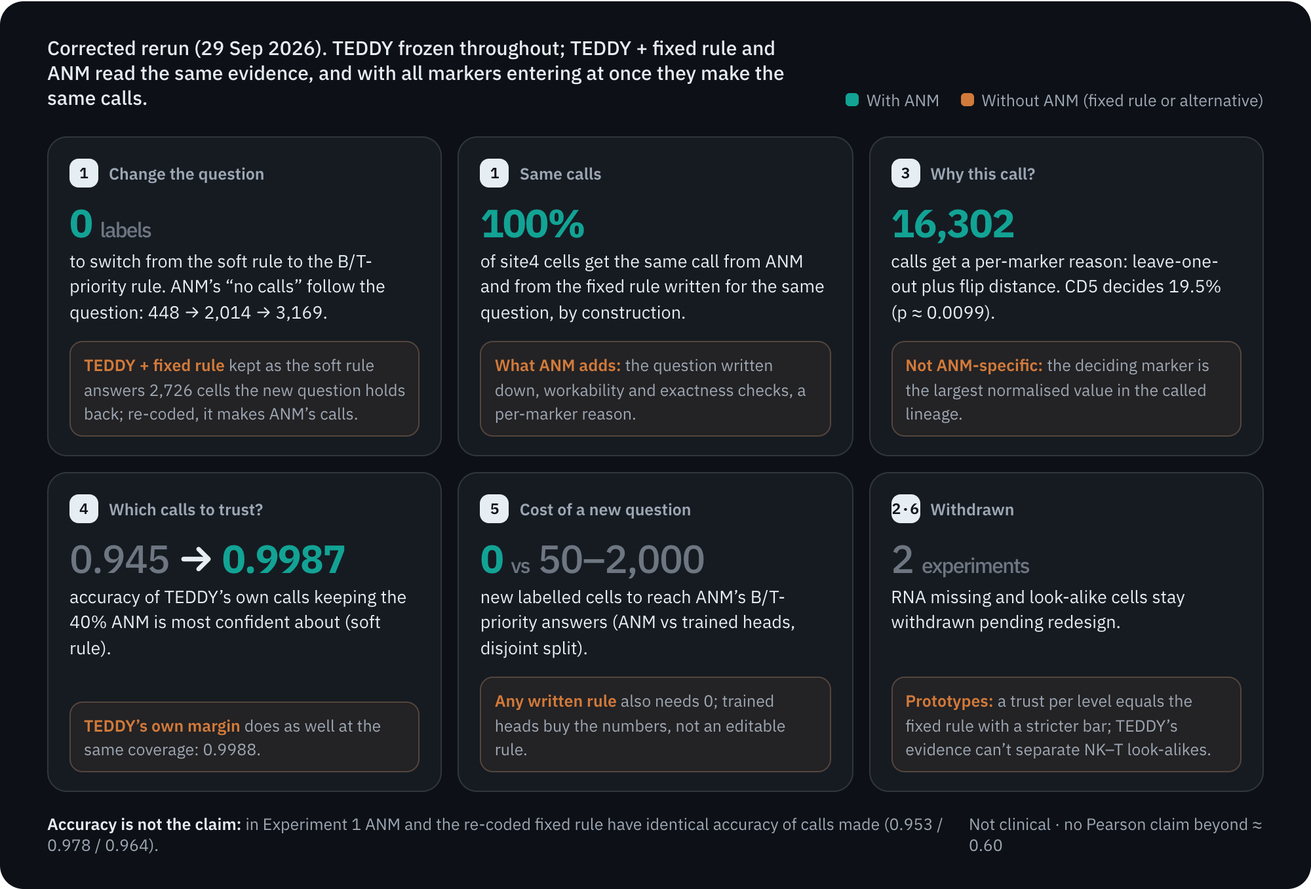
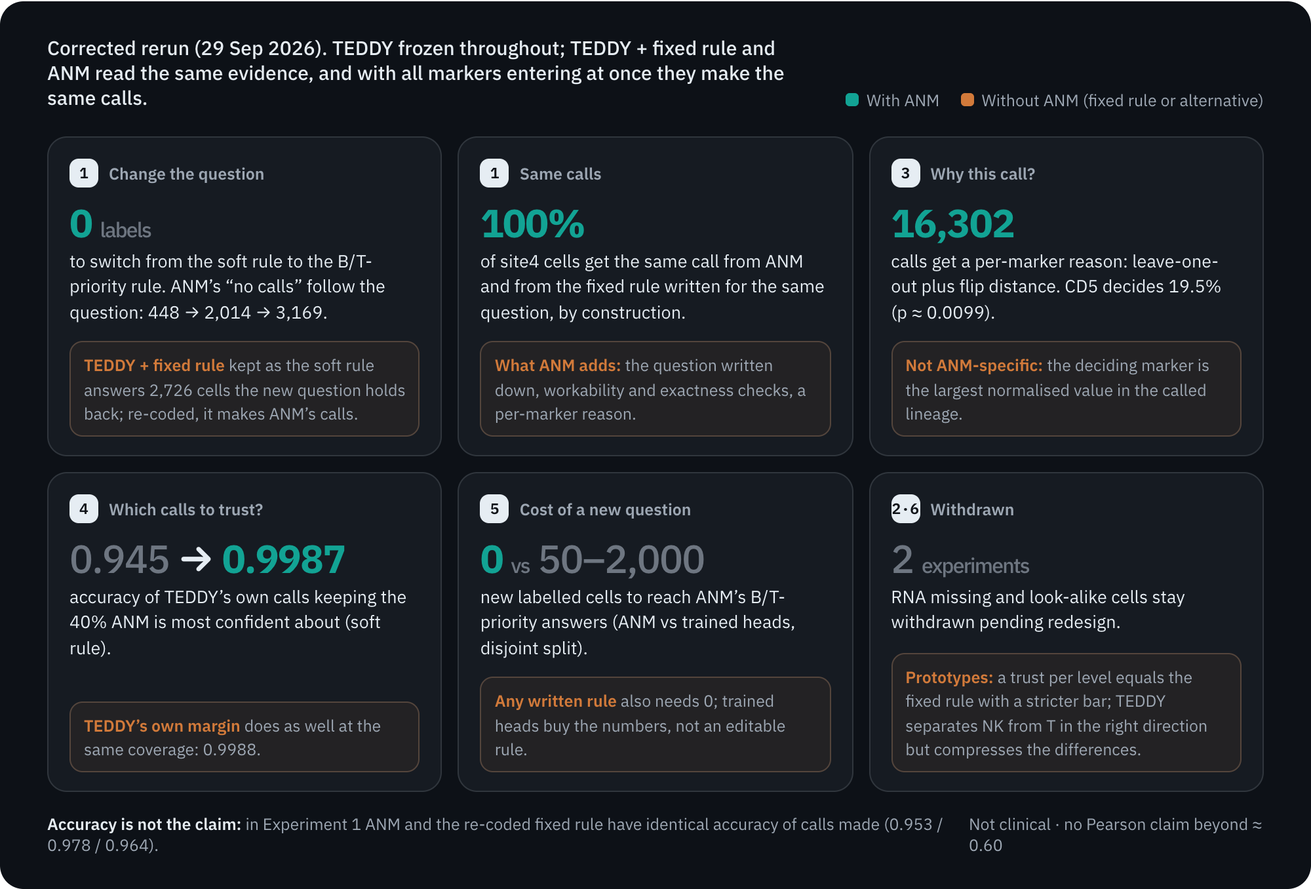
docs: correct the Experiment 6 NK–T prototype claim
The earlier line "TEDDY's evidence cannot separate NK–T look-alikes"
(predicted NK-marker gap 0.000) came from the 918 of 1,279 site4 NK–T
pairs that involve "gdT CD158b+" cells, which TEDDY and measured protein
both call NK-like. On the other 361 pairs the median predicted gap for
CD56/CD94/CD335/CD3 is 0.176/0.137/0.248/0.195 vs measured
0.563/0.301/0.360/0.738: TEDDY separates NK from T in the right
direction but compresses the differences. Updated the homepage, the
Experiment 6 page, README, MODE_B_SCOPE and the README "why" figure.

Changed region(s): [[0.682, 0.7434, 0.93, 0.8673]]

diff --git a/docs/index.html b/docs/index.html
@@ -592,7 +592,7 @@ footer .wrap { display: flex; flex-wrap: wrap; gap: 8px 24px; justify-content: s
           <li><b>Experiment 5:</b> labels are now drawn from a pool disjoint from the scored cells (11,725 / 5,025). Labels to match ANM: logistic 500, MLP 2,000 (was 200), threshold grid 50.</li>
           <li><b>Answer key.</b> It still has three classes (B, T, myeloid) and no NK or out-of-scope class. Out-of-scope cells (NK, ILC, erythroid, progenitor) still get a call 64–91% of the time, from ANM and the rule alike.</li>
           <li><b>Experiment 2 (RNA missing): withdrawn pending redesign.</b> Prototype: with degraded RNA fed to TEDDY, ANM with a declared trust per level makes the same decisions as the fixed rule with a stricter bar per level.</li>
-          <li><b>Experiment 6 (look-alike cells): withdrawn pending redesign.</b> Prototype: TEDDY’s evidence cannot separate NK–T look-alikes, and 72% of site4 NK–T pairs involve “gdT CD158b+” cells that look NK by protein.</li>
+          <li><b>Experiment 6 (look-alike cells): withdrawn pending redesign.</b> Prototype: TEDDY does separate NK from T in the right direction but compresses the differences to about a quarter to a half of the measured ones (CD335 about two-thirds). On site4, 918 of the 1,279 NK–T look-alike pairs involve “gdT CD158b+” cells, which TEDDY and measured protein both call NK-like (an annotation problem, not a TEDDY failure); on the other 361 pairs the median within-pair gap in TEDDY-predicted CD56 / CD94 / CD335 / CD3 is 0.176 / 0.137 / 0.248 / 0.195 vs measured 0.563 / 0.301 / 0.360 / 0.738.</li>
           <li><b>Phase 1 re-evaluated</b> with the train-median factor: test Pearson 0.610 → 0.603 (MLP) and 0.596 → 0.588 (flow matching); panel proteins drop by at most 0.013.</li>
           <li><b>TEDDY preprocessing deviates from the official pipeline.</b> teddy_mm’s embedding is a mean over real tokens at 512 tokens with no gene-median normalisation. Official TEDDY-G returns token 0 by default; its tutorial mean-pools over 2,048 positions after gene-median normalisation. With the medians applied, the cosine to the stored embedding is 0.649.</li>
           <li><b>“0 labels for a new question”</b> holds for any written rule, including TEDDY’s fixed rule; it is not specific to ANM.</li>
@@ -672,7 +672,7 @@ footer .wrap { display: flex; flex-wrap: wrap; gap: 8px 24px; justify-content: s
             <tr><th scope="row"><a href="#attr">3 · Why this call?</a></th><td class="c-t" data-arm="TEDDY + fixed rule">Reports no reason; once written down, the same leave-one-out runs on the rule itself</td><td class="win c-a" data-arm="TEDDY + ANM">Leave-one-out and flip distance on all 16,302 calls; CD5 decides 19.5% (p ≈ 0.0099), as the largest normalised value in the called lineage</td><td class="c-r" data-arm="TEDDY + trained classifier">Learned weights (opaque)</td></tr>
             <tr><th scope="row"><a href="#scope">4 · Which calls to trust?</a></th><td class="win c-t" data-arm="TEDDY + fixed rule">Its own score margin gates its calls as well: 0.9985 keeping 40% (B/T-priority)</td><td class="c-a" data-arm="TEDDY + ANM">Its confidence gates TEDDY’s calls: 0.915 → 0.9981 keeping 40% (B/T-priority), no better than the margin</td><td class="c-r" data-arm="TEDDY + trained classifier">A small head on the 9 predictions, trained on hard-cell labels, gains little over random labels (+0.055 at 50, +0.003 at 100)</td></tr>
             <tr><th scope="row"><a href="#labels">5 · Cost of a new question</a></th><td class="c-t" data-arm="TEDDY + fixed rule">Re-code the rule (0 labels) or re-tune on labels</td><td class="c-a" data-arm="TEDDY + ANM">0 labels, as for any written rule (TEDDY’s fixed rule included)</td><td class="c-r" data-arm="TEDDY + trained classifier">≈ 50 (grid), 500 (logistic) or 2,000 (MLP) labelled cells to match, again at every change</td></tr>
-            <tr><th scope="row"><a href="#anm-loop">6 · Look-alike cells</a></th><td class="c-t" data-arm="TEDDY + fixed rule">Withdrawn pending redesign</td><td class="c-a" data-arm="TEDDY + ANM">Withdrawn. Prototype: TEDDY’s evidence cannot separate NK–T look-alikes; 72% of site4 NK–T pairs involve “gdT CD158b+” cells that look NK by protein</td><td class="c-r" data-arm="TEDDY + trained classifier">Withdrawn</td></tr>
+            <tr><th scope="row"><a href="#anm-loop">6 · Look-alike cells</a></th><td class="c-t" data-arm="TEDDY + fixed rule">Withdrawn pending redesign</td><td class="c-a" data-arm="TEDDY + ANM">Withdrawn. Prototype: TEDDY separates NK from T in the right direction but compresses the differences (on the 361 site4 NK–T pairs without “gdT CD158b+” cells, which TEDDY and protein both call NK-like: median predicted CD56 gap 0.176 vs measured 0.563)</td><td class="c-r" data-arm="TEDDY + trained classifier">Withdrawn</td></tr>
           </tbody>
         </table>
       </div>
@@ -1150,7 +1150,7 @@ footer .wrap { display: flex; flex-wrap: wrap; gap: 8px 24px; justify-content: s
           <div class="bk"><div class="v t">−0.27</div><div class="d">gluing protein features onto the embedding (z⁺) makes the global must-separate rate worse.</div></div>
         </div>
         <div class="bproof">
-          <div class="proves"><b>Headline withdrawn pending redesign</b>The test also changes the question (soft → strict), and the answer key has no NK or out-of-scope class, so many “myeloid” cells in these pairs are NK cells. Redesign prototype: TEDDY’s evidence cannot separate NK–T look-alikes, and 72% of site4 NK–T pairs involve “gdT CD158b+” cells that look NK by protein. Kept here for the record: ANM can flag where TEDDY’s embedding is insufficient and add a typed evidence channel, without retraining TEDDY.</div>
+          <div class="proves"><b>Headline withdrawn pending redesign</b>The test also changes the question (soft → strict), and the answer key has no NK or out-of-scope class, so many “myeloid” cells in these pairs are NK cells. Redesign prototype: TEDDY does separate NK from T in the right direction but compresses the differences to about a quarter to a half of the measured ones (CD335 about two-thirds). On site4, 918 of the 1,279 NK–T look-alike pairs involve “gdT CD158b+” cells, which TEDDY and measured protein both call NK-like (an annotation problem, not a TEDDY failure); on the other 361 pairs the median within-pair gap in TEDDY-predicted CD56 / CD94 / CD335 / CD3 is 0.176 / 0.137 / 0.248 / 0.195 vs measured 0.563 / 0.301 / 0.360 / 0.738. Kept here for the record: ANM can flag where TEDDY’s embedding is insufficient and add a typed evidence channel, without retraining TEDDY.</div>
           <div class="limits"><b>Does not prove</b>A production fix: measured protein replaces TEDDY’s predictions as the evidence in this one test; in normal use it stays the answer key. Gains are smaller on all 5,000 pairs (0.893 → 0.586). A decision loop, not a study of TEDDY’s internals.</div>
         </div>
         <div class="loop-cta"><a class="btn pri" href="anm-loop.html">Step through the loop ↗</a><span style="font-size:.84rem;color:var(--ink-muted)">Veto evidence, every fix we tried, scoreboard by fix × metric.</span></div>
@@ -1442,7 +1442,7 @@ window.GUIDE_CONFIG = (function () {
             [T('veto', 'Veto'), 'Of 177,704 near pairs, 9,723 have measured proteins that disagree: ' + T('mustpair', 'must-separate pairs') + '. On 1,490 myeloid↔T pairs (median cosine 0.982), TEDDY’s predictions read by the soft rule give both cells the same call in 85% of the pairs where both are called.'],
             [T('complement', 'Complement'), 'Same engine, different evidence: the 9 inputs come from the measured proteins instead of TEDDY’s predictions, read by the strict rule. Also tried: the question alone, and gluing proteins onto the embedding (' + T('zplus', 'z⁺') + ').'],
             [T('verify', 'Verify'), 'The same pairs again: false agreement 0.85 → 0.40, pairs told apart 0.17 → 0.63, accuracy of calls made 0.74 → 0.99.'],
-            ['What it showed', 'Headline withdrawn pending redesign (it also changes the question; the key has no NK class). Redesign prototype: TEDDY’s evidence cannot separate NK–T look-alikes; 72% of site4 NK–T pairs involve “gdT CD158b+” cells that look NK by protein. As run, only changing the evidence the decision reads fixes these pairs. The question alone leaves false agreement at 0.83–0.84, and z⁺ makes the global must-separate rate worse (−0.27).']
+            ['What it showed', 'Headline withdrawn pending redesign (it also changes the question; the key has no NK class). Redesign prototype: TEDDY separates NK from T in the right direction but compresses the differences (on the 361 site4 NK–T pairs without “gdT CD158b+” cells, which TEDDY and protein both call NK-like: median predicted CD56 gap 0.176 vs measured 0.563). As run, only changing the evidence the decision reads fixes these pairs. The question alone leaves false agreement at 0.83–0.84, and z⁺ makes the global must-separate rate worse (−0.27).']
           ]
         },
         concepts: ['z512', 'mustpair', 'veto', 'complement', 'verify', 'falseagree', 'softsep', 'zplus']
@@ -2158,7 +2158,7 @@ window.GUIDE_CONFIG = (function () {
         ['… · embedding + predicted protein (z⁺)', f(b6.zplus.predFrac98, 4)],
         ['Global change in the must-separate rate (measured / predicted / predicted, all 9 proteins)', b6.zplus.global.map(function (v) { return f(v, 4); }).join(' / ')]
       ] }
-    ], 'First run. Full fix-by-fix scoreboard: <a href="anm-loop.html#verify-all">anm-loop.html</a>. Withdrawn pending redesign: the prototype finds TEDDY’s evidence cannot separate NK–T look-alikes, and 72% of site4 NK–T pairs involve “gdT CD158b+” cells that look NK by protein.');
+    ], 'First run. Full fix-by-fix scoreboard: <a href="anm-loop.html#verify-all">anm-loop.html</a>. Withdrawn pending redesign: the prototype finds TEDDY separates NK from T in the right direction but compresses the differences (on the 361 site4 NK–T pairs without “gdT CD158b+” cells, which TEDDY and protein both call NK-like: median predicted CD56 gap 0.176 vs measured 0.563).');
   }
 
   /* =================== observer explorer =================== */

diff --git a/docs/anm-loop.html b/docs/anm-loop.html
@@ -344,7 +344,7 @@ footer { padding: 2rem 0 3rem; color: var(--ink-muted); font-size: .84rem; borde
         <div class="tile"><div class="k"><span class="term" data-term="softsep">Soft separation</span> ↑</div><div class="v"><span class="from">0.17</span><span class="arrow">→</span><span class="to">0.63</span></div><div class="h">Pair told apart: different calls, or one declined</div></div>
         <div class="tile"><div class="k"><span class="term" data-term="qdec">Accuracy of calls made</span> ↑</div><div class="v"><span class="from">0.74</span><span class="arrow">→</span><span class="to">0.99</span></div><div class="h">Correct calls among the calls made</div></div>
       </div>
-      <div class="say warn" style="margin-top:1rem;font-size:.86rem"><b>Corrections (29 Sep 2026).</b> This page is Experiment 6, Look-alike cells. It stays <b>withdrawn pending redesign</b> and was not rerun; the numbers below are the first run’s, kept as a record. The corrected rerun is done for Experiments 1, 3, 4 and 5 (<a href="index.html#corrections">see the homepage</a>): with all markers entering at once and a train-median size factor, ANM makes the same call as the fixed rule on every cell. Known issues here: markers were entered one per step in panel order, a hidden weight; predictions were scaled by a per-cell factor computed from measured protein; the answer key has no NK or out-of-scope class. Redesign prototype: TEDDY’s evidence cannot separate NK–T look-alikes, and 72% of site4 NK–T pairs involve “gdT CD158b+” cells that look NK by protein. Donor 15078 is in training at other sites and is 32.6% of site4 test cells, and the 9 panel proteins were chosen by test-set Pearson.</div>
+      <div class="say warn" style="margin-top:1rem;font-size:.86rem"><b>Corrections (29 Sep 2026).</b> This page is Experiment 6, Look-alike cells. It stays <b>withdrawn pending redesign</b> and was not rerun; the numbers below are the first run’s, kept as a record. The corrected rerun is done for Experiments 1, 3, 4 and 5 (<a href="index.html#corrections">see the homepage</a>): with all markers entering at once and a train-median size factor, ANM makes the same call as the fixed rule on every cell. Known issues here: markers were entered one per step in panel order, a hidden weight; predictions were scaled by a per-cell factor computed from measured protein; the answer key has no NK or out-of-scope class. Redesign prototype: TEDDY does separate NK from T in the right direction but compresses the differences to about a quarter to a half of the measured ones (CD335 about two-thirds). On site4, 918 of the 1,279 NK–T look-alike pairs involve “gdT CD158b+” cells, which TEDDY and measured protein both call NK-like (an annotation problem, not a TEDDY failure); on the other 361 pairs the median within-pair gap in TEDDY-predicted CD56 / CD94 / CD335 / CD3 is 0.176 / 0.137 / 0.248 / 0.195 vs measured 0.563 / 0.301 / 0.360 / 0.738. Donor 15078 is in training at other sites and is 32.6% of site4 test cells, and the 9 panel proteins were chosen by test-set Pearson.</div>
       <p class="srcnote">Myeloid↔T must-separate pairs, 1,490 · before = TEDDY + fixed rule (soft) → after = measured protein as typed evidence, strict rule · source: <a href="reports/reverse_loop_small_stats.json">reverse_loop_small_stats.json</a></p>
     </div>
   </section>
@@ -564,7 +564,7 @@ footer { padding: 2rem 0 3rem; color: var(--ink-muted); font-size: .84rem; borde
         </ul></div>
       </div>
       <div class="proof">
-        On 5,000 must-separate pairs (1,490 myeloid↔T, median cosine 0.982), TEDDY’s embedding alone is not enough for the readout: false agreement 0.85, soft separation 0.17, accuracy 0.74. ANM’s decision loop vetoes the embedding for these pairs, swaps in measured protein as typed evidence with the strict rule, and verifies false agreement → 0.40, soft separation → 0.63, accuracy → 0.99, without retraining TEDDY. Gluing features onto the embedding is not enough (global change −0.27). Not a study of TEDDY’s internals, not a Pearson claim, not clinical. Withdrawn pending redesign (29 Sep 2026): markers entered one per step in panel order, predictions scaled by a per-cell factor from measured protein, no NK or out-of-scope class in the answer key. The redesign prototype finds TEDDY’s evidence cannot separate NK–T look-alikes; 72% of site4 NK–T pairs involve “gdT CD158b+” cells that look NK by protein.
+        On 5,000 must-separate pairs (1,490 myeloid↔T, median cosine 0.982), TEDDY’s embedding alone is not enough for the readout: false agreement 0.85, soft separation 0.17, accuracy 0.74. ANM’s decision loop vetoes the embedding for these pairs, swaps in measured protein as typed evidence with the strict rule, and verifies false agreement → 0.40, soft separation → 0.63, accuracy → 0.99, without retraining TEDDY. Gluing features onto the embedding is not enough (global change −0.27). Not a study of TEDDY’s internals, not a Pearson claim, not clinical. Withdrawn pending redesign (29 Sep 2026): markers entered one per step in panel order, predictions scaled by a per-cell factor from measured protein, no NK or out-of-scope class in the answer key. The redesign prototype finds TEDDY does separate NK from T in the right direction but compresses the differences to about a quarter to a half of the measured ones (CD335 about two-thirds). On site4, 918 of the 1,279 NK–T look-alike pairs involve “gdT CD158b+” cells, which TEDDY and measured protein both call NK-like (an annotation problem, not a TEDDY failure); on the other 361 pairs the median within-pair gap in TEDDY-predicted CD56 / CD94 / CD335 / CD3 is 0.176 / 0.137 / 0.248 / 0.195 vs measured 0.563 / 0.301 / 0.360 / 0.738.
       </div>
     </div>
   </section>

diff --git a/docs/assets/readme/src/figures.html b/docs/assets/readme/src/figures.html
@@ -150,7 +150,7 @@ body { margin: 0; padding: 20px; background: #888; font-family: var(--font); col
       <div class="vs"><b>Any written rule</b> also needs 0; trained heads buy the numbers, not an editable rule.</div></div>
     <div class="card"><div class="k"><i>2·6</i>Withdrawn</div><div class="v"><span class="f">2</span> <small>experiments</small></div>
       <p class="c">RNA missing and look-alike cells stay withdrawn pending redesign.</p>
-      <div class="vs"><b>Prototypes:</b> a trust per level equals the fixed rule with a stricter bar; TEDDY’s evidence can’t separate NK–T look-alikes.</div></div>
+      <div class="vs"><b>Prototypes:</b> a trust per level equals the fixed rule with a stricter bar; TEDDY separates NK from T in the right direction but compresses the differences.</div></div>
   </div>
   <div class="foot"><span><b>Accuracy is not the claim:</b> in Experiment 1 ANM and the re-coded fixed rule have identical accuracy of calls made (0.953 / 0.978 / 0.964).</span><span>Not clinical · no Pearson claim beyond ≈ 0.60</span></div>
 </div>

diff --git a/README.md b/README.md
@@ -35,7 +35,7 @@
 > - **Experiment 5.** Labels now come from a pool disjoint from the scored cells (11,725 / 5,025). Labels to match ANM on the B/T-priority question: logistic 500, MLP 2,000 (was 200), threshold grid 50.
 > - **Answer key.** Still three classes (B, T, myeloid), no NK or out-of-scope class. Out-of-scope cells (NK, ILC, erythroid, progenitor) still get a call 64–91% of the time, from ANM and the rule alike.
 > - **Experiment 2 (RNA missing) stays withdrawn** pending redesign. Prototype: with degraded RNA fed to TEDDY, ANM with a declared trust per level makes the same decisions as the fixed rule with a stricter bar per level.
-> - **Experiment 6 (look-alike cells) stays withdrawn** pending redesign. Prototype: TEDDY's evidence cannot separate NK–T look-alikes; 72% of site4 NK–T pairs involve "gdT CD158b+" cells that look NK by protein.
+> - **Experiment 6 (look-alike cells) stays withdrawn** pending redesign. Prototype: TEDDY does separate NK from T in the right direction but compresses the differences to about a quarter to a half of the measured ones (CD335 about two-thirds). On site4, 918 of the 1,279 NK–T look-alike pairs involve "gdT CD158b+" cells, which TEDDY and measured protein both call NK-like (an annotation problem, not a TEDDY failure); on the other 361 pairs the median within-pair gap in TEDDY-predicted CD56 / CD94 / CD335 / CD3 is 0.176 / 0.137 / 0.248 / 0.195 vs measured 0.563 / 0.301 / 0.360 / 0.738.
 > - **Phase 1 re-evaluated** with the train-median factor (`scripts/05_eval.py --size-factor train-median --out-dir outputs/cite_phase1_v2`): mean test Pearson 0.6102 → 0.6033 (MLP) and 0.5962 → 0.5881 (flow matching); the 9 panel proteins drop by at most 0.013 and all stay above 0.86. Mean R² is 0.111 (MLP) and 0.046 (flow matching), low next to Pearson, possibly a scale mismatch; not investigated.
 > - **"0 labels for a new question"** holds for any written rule, including TEDDY's fixed rule, not only for ANM.
 >
@@ -112,7 +112,7 @@ Three roles, one direction. Nothing flows back into TEDDY.
 | Why this call? | Reports no reason; once written down, the same [leave-one-out](#t-loo) runs on the rule | Leave-one-out + [flip distance](#t-flip) on 16,302 calls; CD5 decides 19.5% ([permutation test](#t-permutation) p ≈ 0.0099) as the largest normalised value in the called lineage |
 | Which calls can I trust? | Its own score margin gates its calls as well: 0.9985 keeping 40% (B/T-priority) | Its [confidence](#t-softp) gates TEDDY's calls: 0.915 → 0.9981 keeping 40% (B/T-priority), no better than the margin |
 | What does a new question cost? | 0 labels if the new rule is written down; a [trained classifier](#t-train) needs 50–2,000 new labelled cells | 0 labels, as for any written rule |
-| Can it tell apart cells that look identical to TEDDY? | Withdrawn pending redesign | Withdrawn. Prototype: TEDDY's evidence cannot separate NK–T look-alikes; 72% of site4 NK–T pairs involve “gdT CD158b+” cells that look NK by protein |
+| Can it tell apart cells that look identical to TEDDY? | Withdrawn pending redesign | Withdrawn. Prototype: TEDDY separates NK from T in the right direction but compresses the differences (on the 361 site4 NK–T pairs without “gdT CD158b+” cells, which TEDDY and protein both call NK-like: median predicted CD56 gap 0.176 vs measured 0.563) |
 
 Accuracy is not the claim. With all markers entering at once, ANM's lineage scores are a fixed multiple of the fixed rule's, so on Experiment 1's held-out cells ANM and the rule written for the same question make the same call on every cell ([accuracy of calls made](#t-qdec) 0.953 / 0.978 / 0.964 for both). The first run's ANM edge (B/T-priority 0.960 vs 0.943) came only from declining more.
 
@@ -166,7 +166,7 @@ Every experiment follows the same protocol:
 | 3 | [Why this call?](https://danielchen26.github.io/teddy_mm/#attr) | Remove one marker's evidence at a time → the marker that decides → how far from flipping; [bootstrap](#t-bootstrap) 200×, permutation 100× within lineage | 16,302 cells · 27.5% of calls flip · CD5 decides 19.5% (was 23.6%), p ≈ 0.0099; the top marker is the largest normalised value in the called lineage, not an ANM effect | [HARD_PROOF_V2](docs/reports/HARD_PROOF_V2.md) |
 | 4 | [Which calls to trust?](https://danielchen26.github.io/teddy_mm/#scope) | Keep TEDDY's call only where ANM is confident ([soft_P](#t-softp)), or where TEDDY's own margin is largest; compare at the same [coverage](#t-coverage); hard cells vs random ones | Keeping 40%: 0.9987 vs 0.9988 (soft), 0.9981 vs 0.9985 (B/T-priority), so no better than the margin; soft_P reaches 1.11 (a score); hard cells 0.818 vs 0.945, mostly NK/ILC (3.4×) and erythroid (3.7×) | [SCOPE_REFINE_PROOF_V2](docs/reports/SCOPE_REFINE_PROOF_V2.md) |
 | 5 | [Cost of a new question](https://danielchen26.github.io/teddy_mm/#labels) | Train classifiers on 50 → 10,619 labels (pool of 11,725 cells, disjoint from the 5,025 scored) until they copy ANM's B/T-priority answers | Copying needs ≈ 50 (grid) / 500 (logistic) / 2,000 (MLP, was 200) labels; ANM needs 0, as does any written rule | [HARD_PROOF_V2](docs/reports/HARD_PROOF_V2.md) |
-| 6 | [Look-alike cells](https://danielchen26.github.io/teddy_mm/anm-loop.html) | Flag look-alike pairs TEDDY's [embedding](#t-z512) can't separate → swap in measured protein as evidence → check again | Withdrawn pending redesign (first run: false agreement 0.85 → 0.40). Prototype: TEDDY's evidence cannot separate NK–T look-alikes; 72% of site4 NK–T pairs involve “gdT CD158b+” cells that look NK by protein | [REVERSE_LOOP_SMALL](docs/reports/REVERSE_LOOP_SMALL.md) (first run) |
+| 6 | [Look-alike cells](https://danielchen26.github.io/teddy_mm/anm-loop.html) | Flag look-alike pairs TEDDY's [embedding](#t-z512) can't separate → swap in measured protein as evidence → check again | Withdrawn pending redesign (first run: false agreement 0.85 → 0.40). Prototype: TEDDY separates NK from T in the right direction but compresses the differences (on the 361 site4 NK–T pairs without “gdT CD158b+” cells, which TEDDY and protein both call NK-like: median predicted CD56 gap 0.176 vs measured 0.563) | [REVERSE_LOOP_SMALL](docs/reports/REVERSE_LOOP_SMALL.md) (first run) |
 
 Charts, data tables and every number's source: **[danielchen26.github.io/teddy_mm](https://danielchen26.github.io/teddy_mm/)**.
 

diff --git a/docs/MODE_B_SCOPE.md b/docs/MODE_B_SCOPE.md
@@ -14,7 +14,7 @@ This is **not** Mode A. Do not read current results as residual-stream / Jacobia
 > - Experiment 3: CD5's top-marker share 23.6% → 19.5%; under simultaneous timing the top marker is the protein with the largest normalised value in the called lineage, so it is not ANM-specific. Flip rate 0.2746; within-lineage permutation p = 0.0099 (the floor for 100 shuffles).
 > - Experiment 4: soft_P gates no better than TEDDY's margin at matched coverage (O2 at 40%: 0.9981 vs 0.9985); soft_P reaches 1.11, a score, not a probability. Hard cells are mostly out of scope (NK/ILC 3.4×, erythroid 3.7× enriched).
 > - Experiment 5, on a disjoint split (11,725 / 5,025): labels to match ANM are logistic 500, MLP 2,000 (was 200), grid 50.
-> - The answer key still has no NK or out-of-scope class; out-of-scope cells still get a call 64–91% of the time. Experiments 2 and 6 stay withdrawn pending redesign (prototypes: with degraded RNA, ANM with a trust per level = the fixed rule with a stricter bar per level; TEDDY evidence cannot separate NK–T look-alikes, and 72% of site4 NK–T pairs involve "gdT CD158b+" cells that look NK by protein). "0 labels for a new question" holds for any written rule, including TEDDY's fixed rule.
+> - The answer key still has no NK or out-of-scope class; out-of-scope cells still get a call 64–91% of the time. Experiments 2 and 6 stay withdrawn pending redesign (prototypes: with degraded RNA, ANM with a trust per level = the fixed rule with a stricter bar per level; TEDDY does separate NK from T in the right direction but compresses the differences to about a quarter to a half of the measured ones (CD335 about two-thirds): 918 of 1,279 site4 NK–T pairs involve "gdT CD158b+" cells, which TEDDY and measured protein both call NK-like, and on the other 361 pairs the median predicted within-pair gap for CD56 / CD94 / CD335 / CD3 is 0.176 / 0.137 / 0.248 / 0.195 vs measured 0.563 / 0.301 / 0.360 / 0.738). "0 labels for a new question" holds for any written rule, including TEDDY's fixed rule.
 > - Phase 1 re-evaluated with the train-median factor: mean test Pearson 0.603 (MLP), 0.588 (flow matching); was 0.610 / 0.596.
 >
 > Disclosures: donor 15078 is in training at other sites and is 32.6% of the site4 test cells; the "out-of-site check" is held-out donor 18303 at a training site, which was also the validation set; the 9 panel proteins were chosen by test-set Pearson; TEDDY preprocessing deviates from the official pipeline (see the `z_512` table below).
